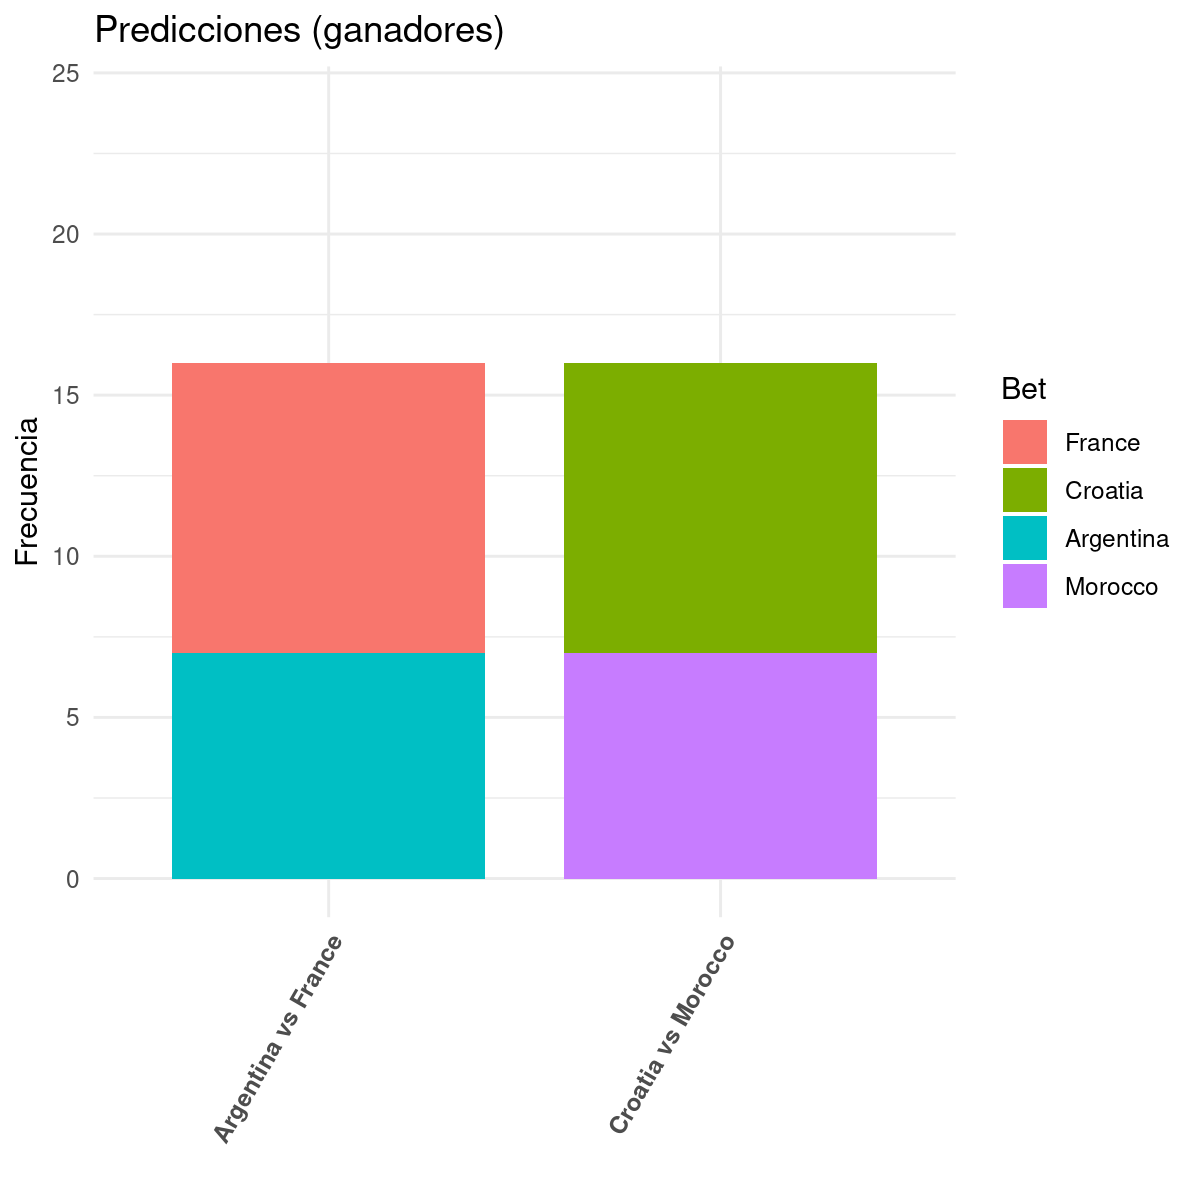
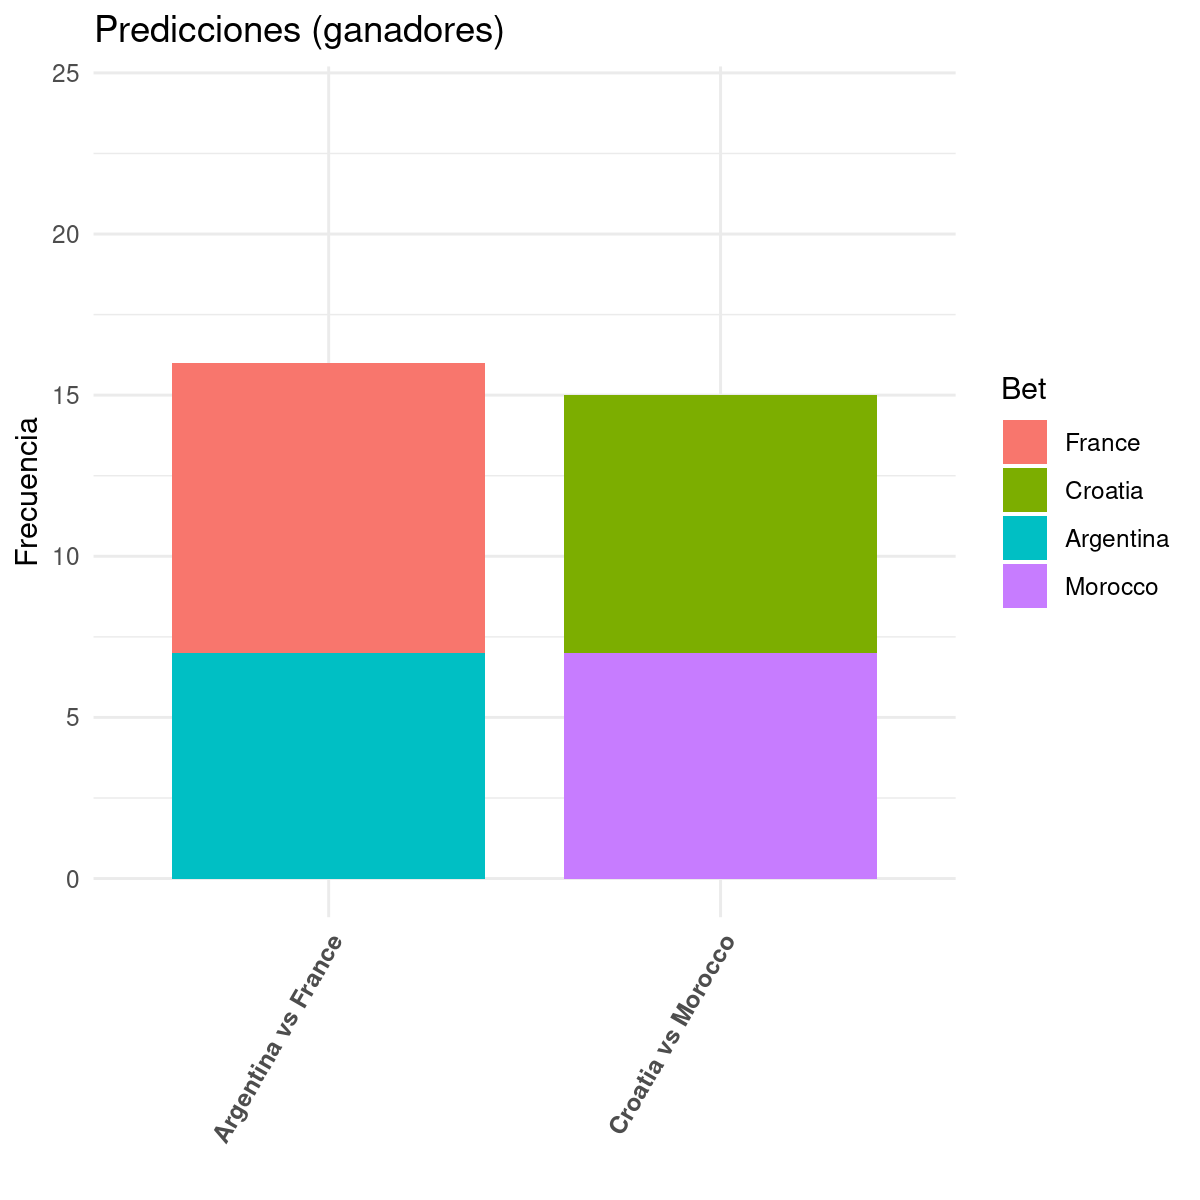
automatic README update

Changed region(s): [[0.4625, 0.2775, 0.74, 0.3392]]

diff --git a/README.md b/README.md
@@ -13,7 +13,7 @@ Este es el repositorio de la quiniela Qatar 2022. Aqui se publicarán las picks 
 
 
 
-Última actualización: sáb 17 dic 2022 11:49:33 EST.
+Última actualización: sáb 17 dic 2022 11:51:56 EST.
 
 
 # **Puntuaciones**
@@ -27,9 +27,9 @@ Este es el repositorio de la quiniela Qatar 2022. Aqui se publicarán las picks 
 | 001                 | Jonathan                      | 10  | 7   | 10  | 7   | 1         | 1   | 1         | 2   | 1         | 1       | 0             | 41    |
 | 002                 | Poncho                        | 9   | 9   | 7   | 6   | 0         | 2   | 1         | 2   | 0         | 1       | 0             | 37    |
 | 014                 | Valentin                      | 9   | 8   | 9   | 6   | 1         | 1   | 0         | 2   | 0         | 1       | 0             | 37    |
-| 007                 | Claudio                       | 9   | 6   | 8   | 8   | 0         | 1   | 0         | 2   | 1         | 1       | 0             | 36    |
 | 016                 | Ernie                         | 8   | 7   | 7   | 7   | 1         | 2   | 0         | 2   | 0         | 1       | 1             | 36    |
 | 020                 | Luis Angel Llamas Alonso      | 10  | 7   | 7   | 8   | 1         | 0   | 1         | 2   | 0         | 0       | 0             | 36    |
+| 007                 | Claudio                       | 9   | 6   | 8   | 8   | 0         | 1   | 0         | 2   | 1         | 0       | 0             | 35    |
 | 010                 | Fosi                          | 8   | 5   | 8   | 7   | 2         | 1   | 0         | 2   | 0         | 1       | 1             | 35    |
 | 009                 | Luis Temo Marquez             | 9   | 5   | 9   | 6   | 0         | 1   | 0         | 2   | 0         | 1       | 0             | 33    |
 | 012                 | Ibrahim T                     | 10  | 6   | 8   | 7   | 1         | 1   | 0         | 0   | 0         | 0       | 0             | 33    |
@@ -114,7 +114,7 @@ Este es el repositorio de la quiniela Qatar 2022. Aqui se publicarán las picks 
 | 004                 | Jalil                        | NA                 | NA                  |
 | 005                 | Isra                         | Croatia            | France              |
 | 006                 | Juan Carlos Avendaño Aguilar | Morocco            | France              |
-| 007                 | Claudio                      | Croatia            | France              |
+| 007                 | Claudio                      | NA                 | France              |
 | 008                 | Héctor Zepeda0              | Morocco            | Argentina           |
 | 009                 | Luis Temo Marquez            | Croatia            | Argentina           |
 | 010                 | Fosi                         | Croatia            | Argentina           |
